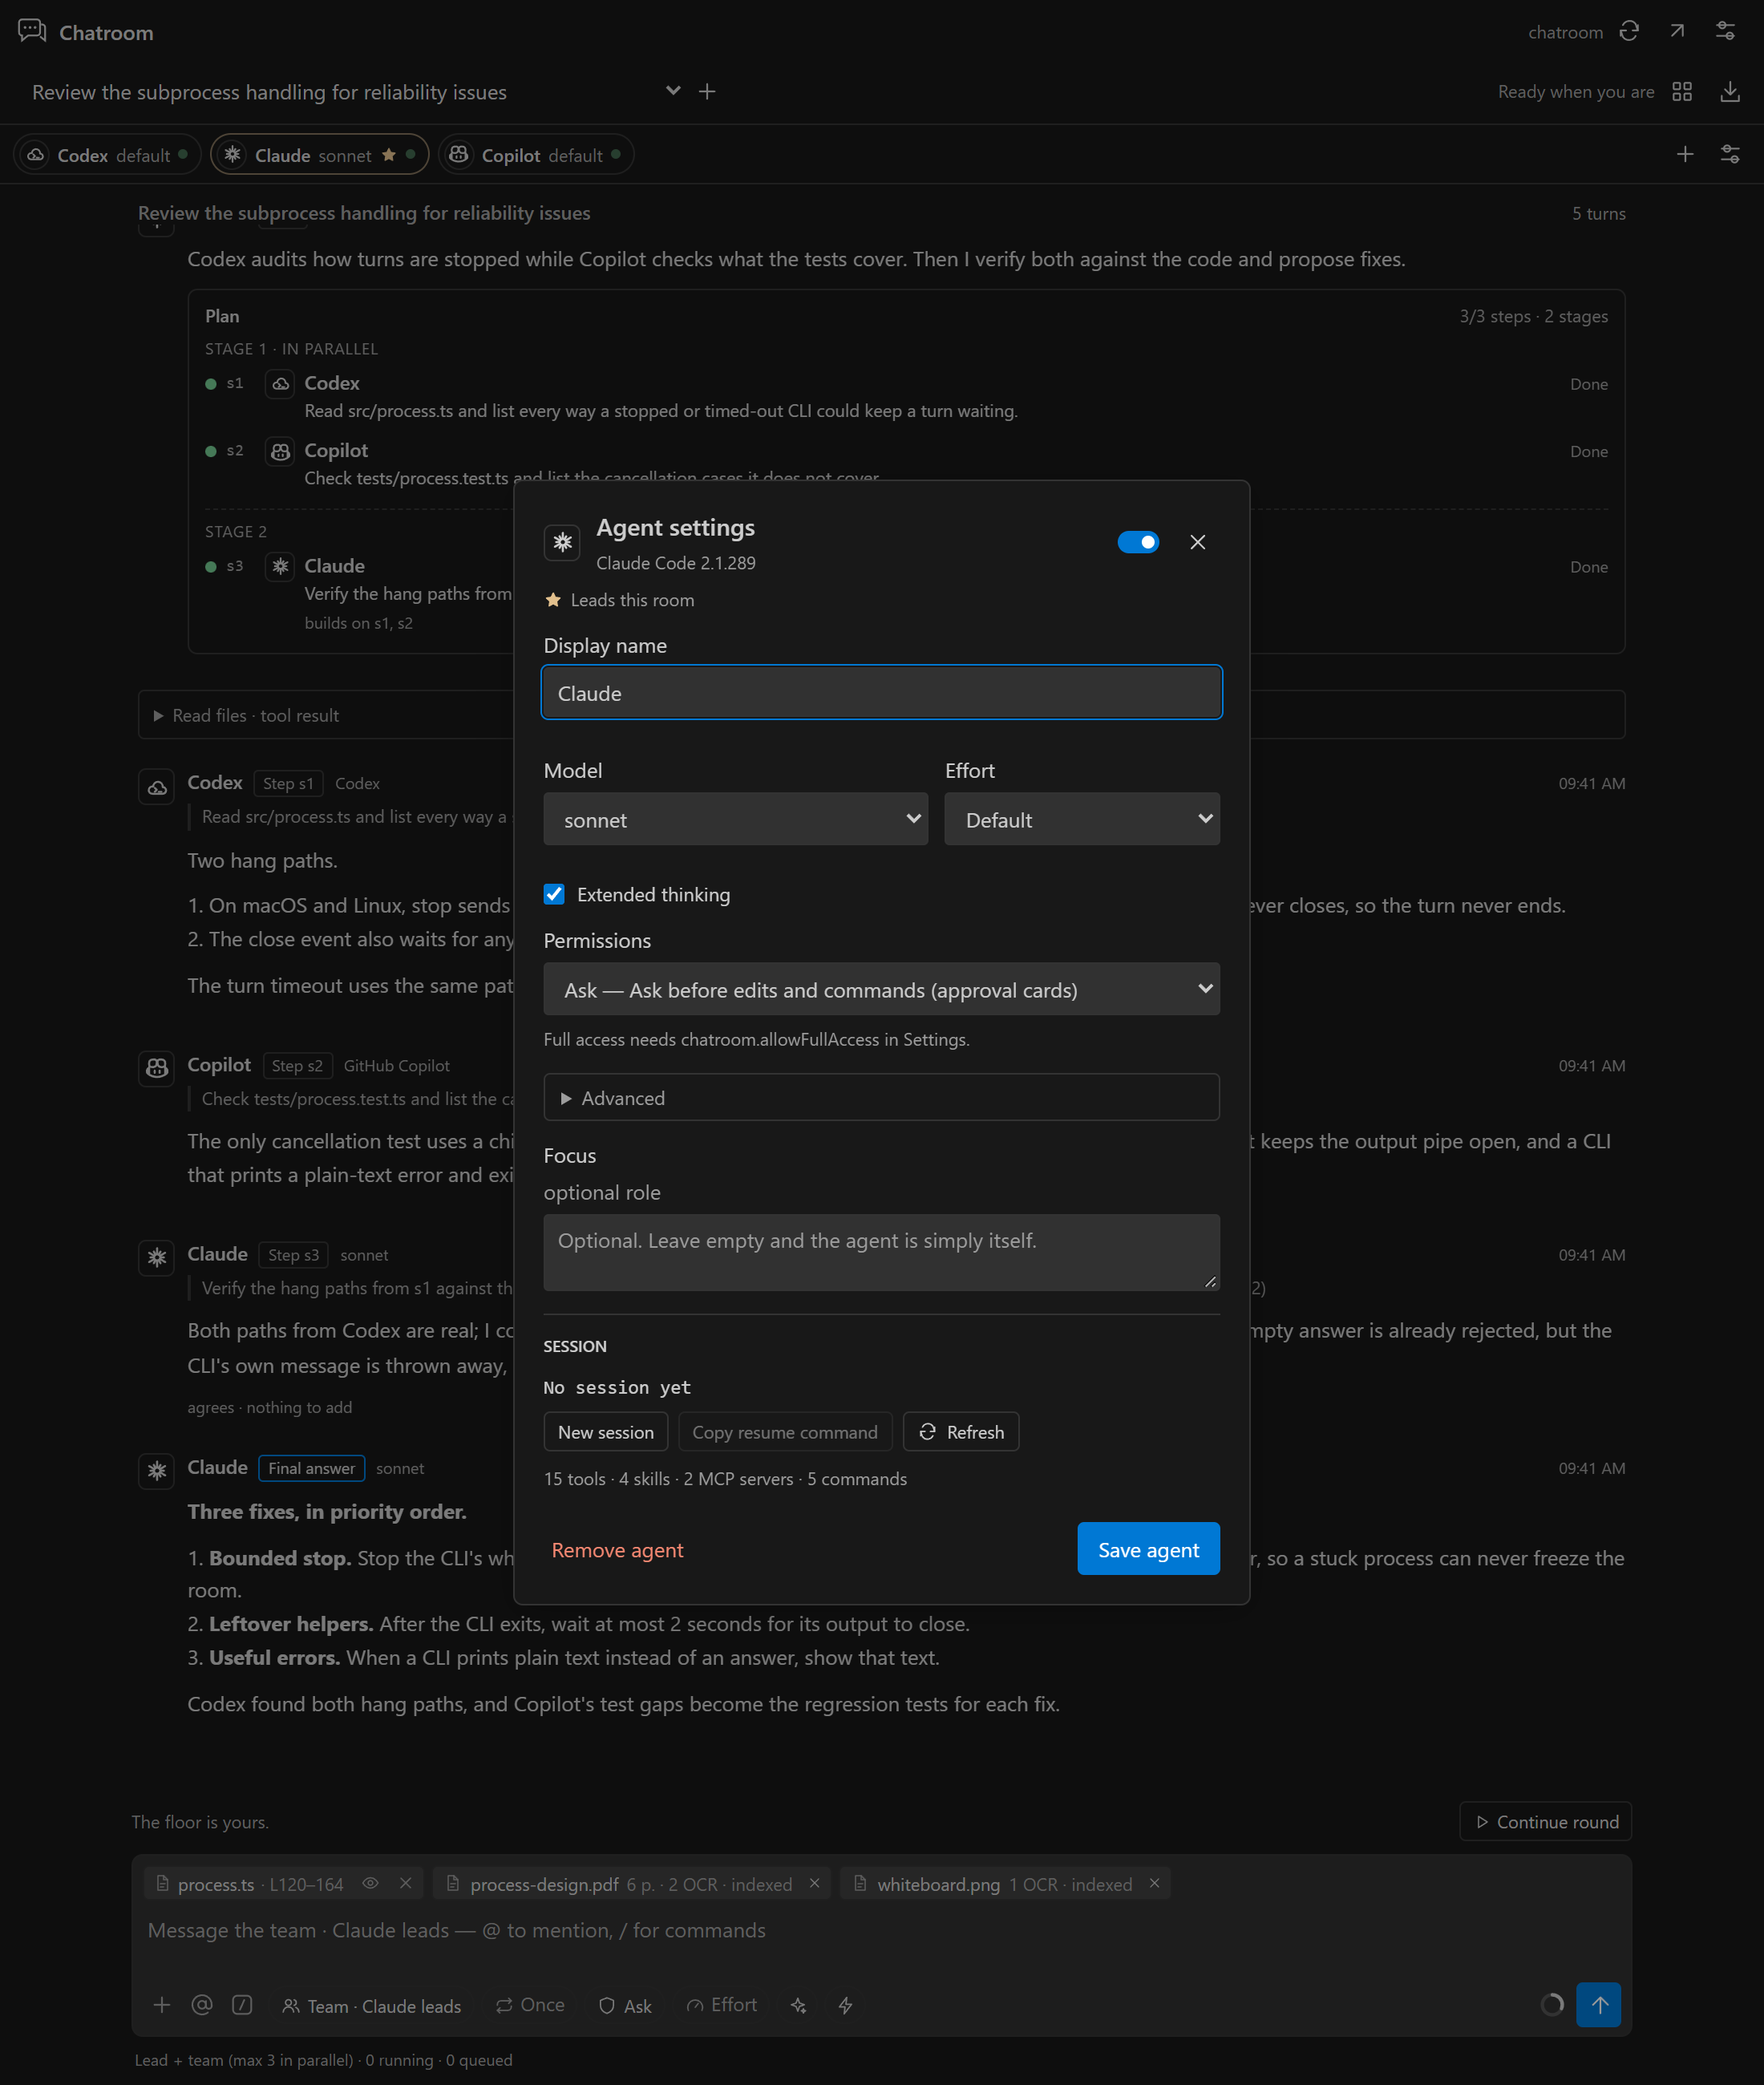
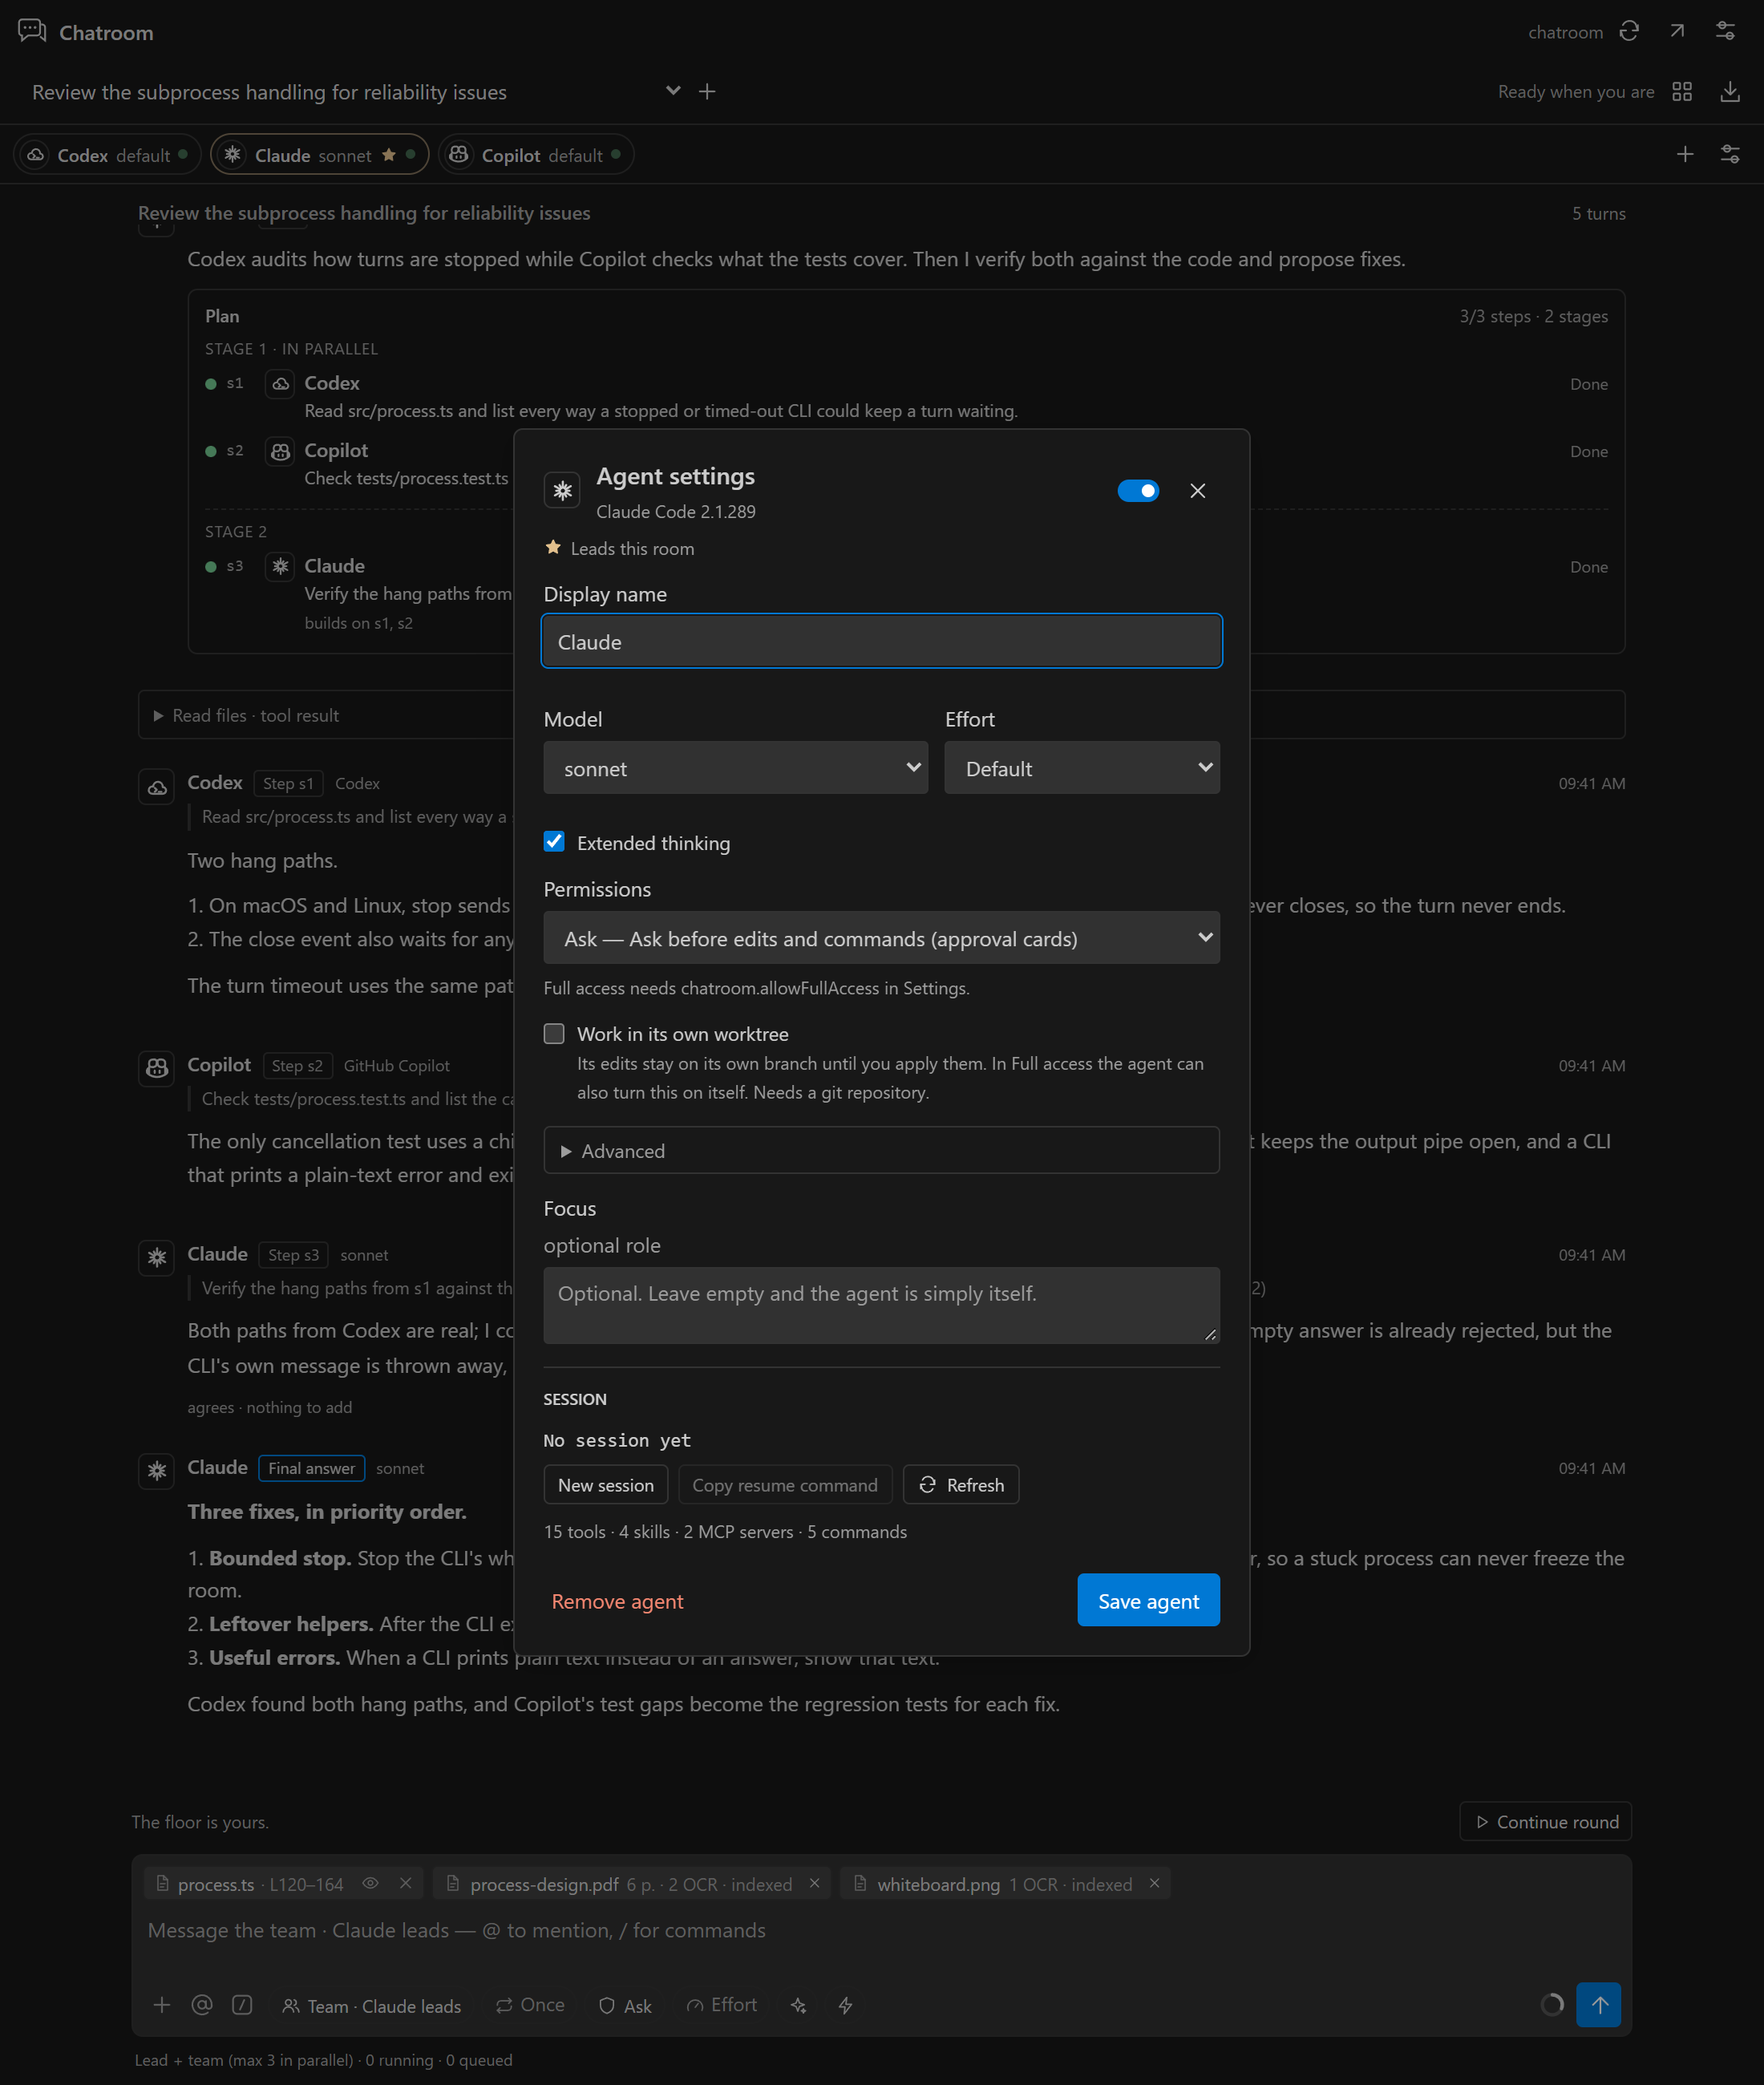
Document worktrees with their costs and benefits for 0.6.0

Changed region(s): [[0.3091, 0.2181, 0.7109, 0.7788], [0.5873, 0.7165, 0.7109, 0.7788]]

diff --git a/README.md b/README.md
@@ -10,6 +10,7 @@ A VS Code extension where the real Claude Code, Codex and GitHub Copilot CLIs wo
 - **One room, shared context.** Every message reaches every agent once. An agent's own replies are already in its session, so each turn sends only what is new. A new or lost session gets a bounded copy of the room history.
 - **Teamwork.** A line that starts with `@Name` hands the next turn to that agent. In **Team** mode a lead answers or brings in teammates (with mention lines or a step plan), independent steps run in parallel, and the lead writes the final answer. **Relay** and **Parallel** modes and `@Agent` messages are there too.
 - **Your own team.** Set up stages that run in order, such as **Leads → Drafting → Review → Testing → Coding**, with one or more agents per stage, an optional task and model routing. Use the team builder, the `chatroom.teams` setting or `/team`.
+- **Worktrees (optional).** Agents that edit at the same time each get their own git worktree and branch; the room combines their work and you review, apply, keep or discard it.
 - **Keeps going when an agent can't.** An agent that is out of usage, not installed, signed out, on a model that isn't available, or offline (Ollama) is shown as such and skipped. The others continue, and another agent takes its step or stage.
 - **Permissions and approvals.** Per agent: **Plan**, **Ask** (the default), **Auto-edit** or **Full access**, mapped to each CLI's own modes. In Ask, edits, commands and network access show up as approval cards in the room. Unanswered requests are denied after 5 minutes.
 - **Composer like Claude Code.** `@` to mention, `/` for room commands and each agent's own slash commands, chips for team mode, loops, permissions and effort, ✦ to think harder and ⚡ Ultra for one message, and a context ring per agent.
@@ -38,7 +39,7 @@ git clone https://github.com/GhoshSrinjoy/ChatRoom.git
 cd ChatRoom
 npm ci
 npm run package
-code --install-extension artifacts/chatroom-0.5.1.vsix
+code --install-extension artifacts/chatroom-0.6.0.vsix
 ```
 
 Then run **Developer: Reload Window** in VS Code. You can also install the file with **Extensions: Install from VSIX…** from the Command Palette.
@@ -147,7 +148,7 @@ All agents work in the same folder, so Chatroom keeps them from overwriting each
 - **Auto-edit and Full access:** agents that edit without asking take turns. Only one of them runs at a time; Plan and Ask agents keep running in parallel.
 - **Team runs:** in Team mode the lead gives each agent a different part. In a custom team the stages run in order, so a later stage works on the files an earlier stage changed; only agents in the same stage work at the same time.
 - **Stale edits are refused, not merged:** Claude Code won't write a file that changed since it read it ("File has been modified since read"), and Codex applies patches against the exact lines it saw, so a patch to a changed file fails instead of overwriting. The agent reads the file again and retries.
-- There are no separate copies (git worktrees) per agent yet. Commit before a big run so you can review or undo the agents' changes with git.
+- **Worktrees (optional):** turn them on and agents that edit at the same time each get their own copy of the repository, so they can't overwrite each other at all. See [Worktrees](#worktrees-optional) below.
 
 Where commands run depends on the CLI. Chatroom does not add a container of its own:
 
@@ -159,6 +160,52 @@ Where commands run depends on the CLI. Chatroom does not add a container of its 
 
 For code you don't trust, keep agents in Plan or Ask, or open the folder in a dev container or WSL so every CLI runs inside it.
 
+## Worktrees (optional)
+
+With worktrees on, an agent works in its own **git worktree** on its own branch instead of in your folder. Agents editing at the same time can't collide, and nothing reaches your files until you say so.
+
+| Mode | Who gets a worktree |
+| --- | --- |
+| **Off** (default) | Nobody. Agents share your folder, protected by approvals and one-editor-at-a-time. |
+| **Auto** | Agents that edit without asking (Auto-edit or Full access), when another agent could edit at the same time (Parallel, Team or a custom team). Relay and @mentions run one agent at a time, so they stay in your folder. |
+| **Always** | Every agent that can edit. |
+| **Per agent** | *Work in its own worktree* in the agent's settings. In Full access the agent can also turn this on itself with the `isolate_workspace` room tool. |
+
+Set it in **Room setup**, the **Team** chip, the `chatroom.worktrees` setting, or with `/worktrees off | auto | always`. Worktrees need the folder to be a git repository.
+
+**How it works**
+
+1. **Starting point.** The first isolated turn snapshots your folder, *including your uncommitted and untracked files*, without touching your files or git index. Every worktree starts from that snapshot.
+2. **Own branch.** Each isolated agent works in `chatroom/<room>/<agent>`, in a folder under VS Code's storage (outside your repository). Its CLI runs there, so its session restarts once, with the room history, when it moves.
+3. **Checkpoints.** After every turn its work is committed to its branch, so each turn has a diff and nothing is lost if VS Code closes.
+4. **Combining.** After every stage (custom team), before the lead's final answer (Team), after every round (Parallel) and at the end of each message, Chatroom merges the agents' branches. If two agents changed the same lines, the agent whose branch conflicts gets one **merge turn** in its own worktree to resolve it. If that still fails, you decide.
+5. **Your decision.** A **Changes** card shows every file and line count:
+   - **Review diff** opens the combined diff.
+   - **Apply to my folder** writes the changes into your files without committing or staging them, and keeps any edits you made in the meantime. Parts that clash with your edits are skipped and listed.
+   - **Keep as branch** saves the result as `chatroom/kept/<name>`.
+   - **Discard** deletes it.
+
+   After applying, keeping or discarding, the worktrees and branches are removed. With `chatroom.worktreeAutoApply`, clean results are applied automatically.
+
+<p align="center"><img src="docs/images/changes.png" width="340" alt="Two agents with branch icons on their pills, and the Changes card with four files, Review diff, Apply to my folder, Keep as branch and Discard"><br><em>Codex and Claude worked in their own worktrees (the branch icon on their pills). The room combined their branches; you review the four files, then apply them, keep them as a branch, or discard them.</em></p>
+
+**Costs and benefits**
+
+| Benefit | Cost |
+| --- | --- |
+| Parallel edits can never overwrite each other, so agents that edit don't have to take turns. | Each worktree is a full checkout of the tracked files: disk space, and a few seconds on large repositories. |
+| The approval gate moves from every edit to one decision: agents edit freely in their copy, and nothing reaches your folder unreviewed. | Ignored files aren't there. Dependencies (`node_modules`, `.venv`, build output) must be installed per worktree, or shared through `chatroom.worktreeLinks`, which every agent then shares. Files such as `.env` are copied only if listed in `chatroom.worktreeCopy`. |
+| Every turn is a checkpoint commit: per-turn diffs, undo, and an audit trail. | Agents don't see each other's files until the room combines them; they learn about the changes from the room messages. |
+| Undo is cheap: discard, or keep the result as a branch and decide later. | More moving parts: merge turns on conflicts, and dev servers that each need their own port. |
+
+**Good to know**
+
+- **Your git hooks** (husky and others) don't run on Chatroom's internal checkpoints and merges. Applying writes plain changes into your folder, so your hooks run when *you* commit.
+- **Shared folders are unlinked before a worktree is removed.** On Windows, removing a worktree can otherwise follow a link and delete the shared folder's contents.
+- **Leftovers:** worktrees of rooms that no longer exist are swept on startup and with **Clean up old worktrees** (Tools tab) or `/worktrees cleanup`. A leftover that holds unapplied work is kept as `chatroom/orphaned/<room>-<date>`.
+- **Codex** trusts the project folder in `~/.codex/config.toml`, as it does when you use it directly. Entries for Chatroom's own worktree folders are removed again during cleanup.
+- **Windows path limit:** git refuses worktrees whose internal path under `.git\worktrees` exceeds about 220 characters. Chatroom then logs it and that agent works in your folder.
+
 ## Commands
 
 | Command | What it does |
@@ -169,6 +216,7 @@ For code you don't trust, keep agents in Plan or Ask, or open the folder in a de
 | `/new`, `/export`, `/stop` | New room, Markdown export, stop all agents |
 | `/loop …` | See loops above |
 | `/mode team \| relay \| parallel \| custom`, `/lead <agent>` | How agents collaborate and who leads |
+| `/worktrees off \| auto \| always \| status \| apply \| keep [name] \| discard \| cleanup` | Give agents their own git worktrees, and decide what happens to their combined changes |
 | `/team …` | Your own team: `/team Lead: Claude > Draft: Codex > Review: Claude`, `/team <name>`, `/team save <name>`, `/team edit`, `/team off` |
 | `@Agent /model <model>`, `/effort <level>`, `/permissions plan \| ask \| auto \| full` | Model, reasoning effort and permission level |
 | `/status` | Sessions, models, effort, permissions and context use per agent |
@@ -207,6 +255,9 @@ Chatroom selects installed local models automatically, preferring a vision model
 | `chatroom.attachOpenFile` | `true` | Share the open file and selection with agents |
 | `chatroom.shareSkills` | `true` | Share skills between the CLIs in new rooms |
 | `chatroom.sharedMcpServers` | `{}` | MCP servers for every native agent, in `.mcp.json` format (user settings only; names starting with `chatroom` are reserved) |
+| `chatroom.worktrees` | `off` | `off`, `auto` or `always` (see [Worktrees](#worktrees-optional)) |
+| `chatroom.worktreeCopy`, `chatroom.worktreeLinks` | `[]` | Ignored files copied into each worktree (e.g. `.env`), and folders linked into it (e.g. `node_modules`, shared by every agent) |
+| `chatroom.worktreeAutoApply` | `false` | Apply combined changes automatically when they merge cleanly |
 | `chatroom.teams` | `[]` | Your saved teams: named lists of stages (`name`, `agents`, `run`, `lead`, `task`, `preset`) |
 | `chatroom.maxHandoffs` | `6` | Agent-to-agent hand-offs per message |
 | `chatroom.copilotUseEnvToken` | `false` | Pass `GH_TOKEN`/`GITHUB_TOKEN` to the Copilot CLI (user settings only) |

diff --git a/CHANGELOG.md b/CHANGELOG.md
@@ -1,5 +1,15 @@
 # Changelog
 
+## 0.6.0
+
+- **Worktrees (optional, off by default).** Agents that edit at the same time can each work in their own git worktree and branch, so they can't overwrite each other.
+  - Modes: Off, Auto (agents that edit without asking, when another agent could edit at the same time), Always. An agent can also be set to always work in its own worktree, and in Full access it can turn this on itself with the `isolate_workspace` room tool.
+  - Worktrees start from a snapshot of your folder, including uncommitted and untracked files, without touching your files or git index. Every turn is a checkpoint commit on the agent's branch.
+  - The room combines the branches after every stage, round, Team plan and message. A conflicting agent gets one merge turn in its own worktree to resolve it.
+  - A Changes card lists every file. **Review diff**, **Apply to my folder** (uncommitted, unstaged, keeping your own edits), **Keep as branch** or **Discard**. Worktrees and branches are removed afterwards; leftovers are swept on startup.
+  - `/worktrees`, Room setup and Team chip toggles, settings `chatroom.worktrees`, `worktreeCopy`, `worktreeLinks` and `worktreeAutoApply`.
+  - Verified live: Claude Code and Codex working in parallel in their own worktrees, combined and applied to the folder.
+
 ## 0.5.1
 
 - Copilot CLI: a model that the CLI lists twice (1.0.92 lists "Auto" twice on accounts that only have Auto) now appears once. Verified live: signing in, a native session that remembers across turns, and usage reporting.
